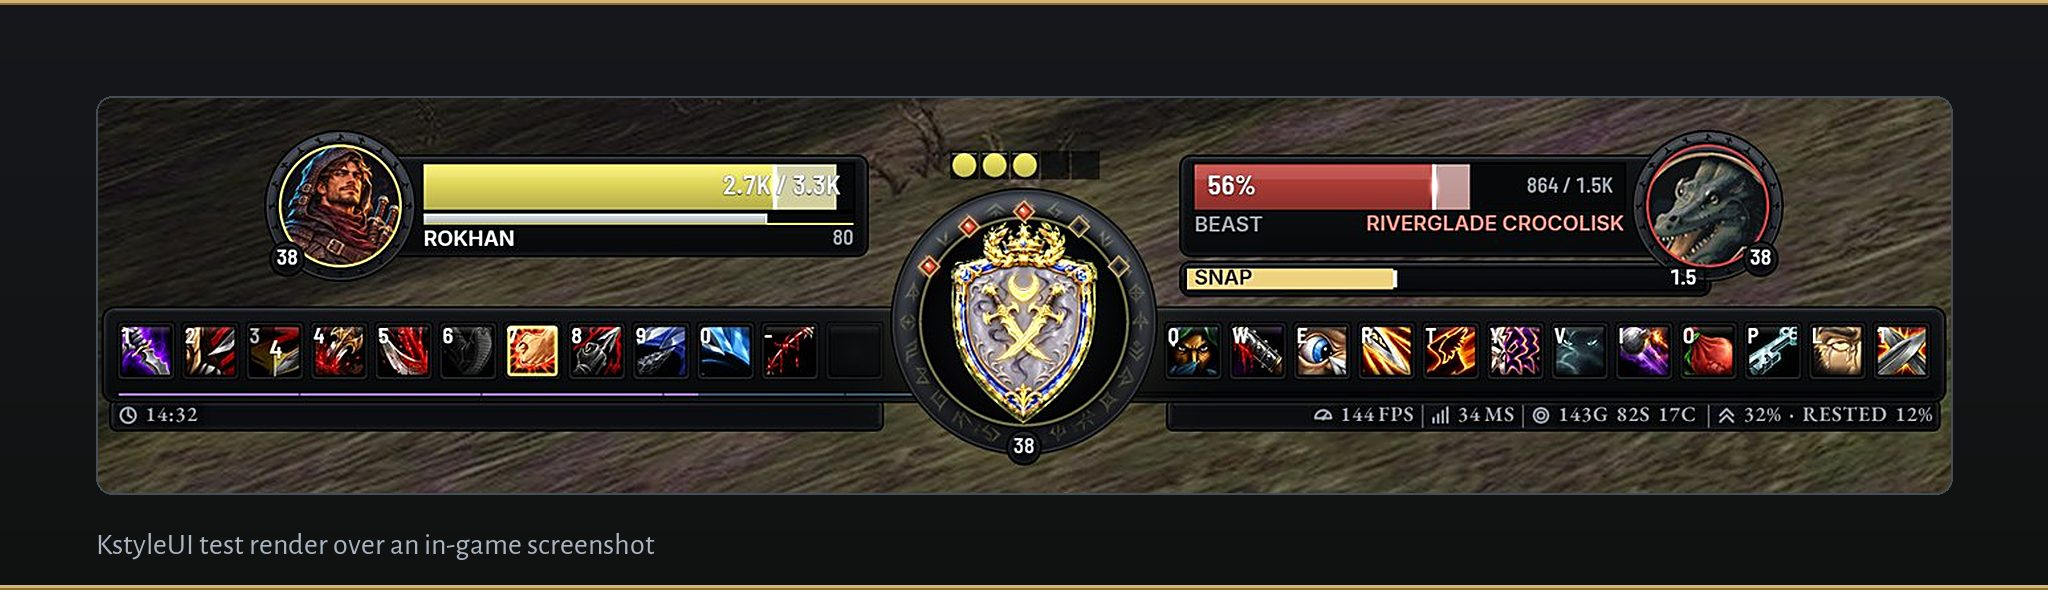
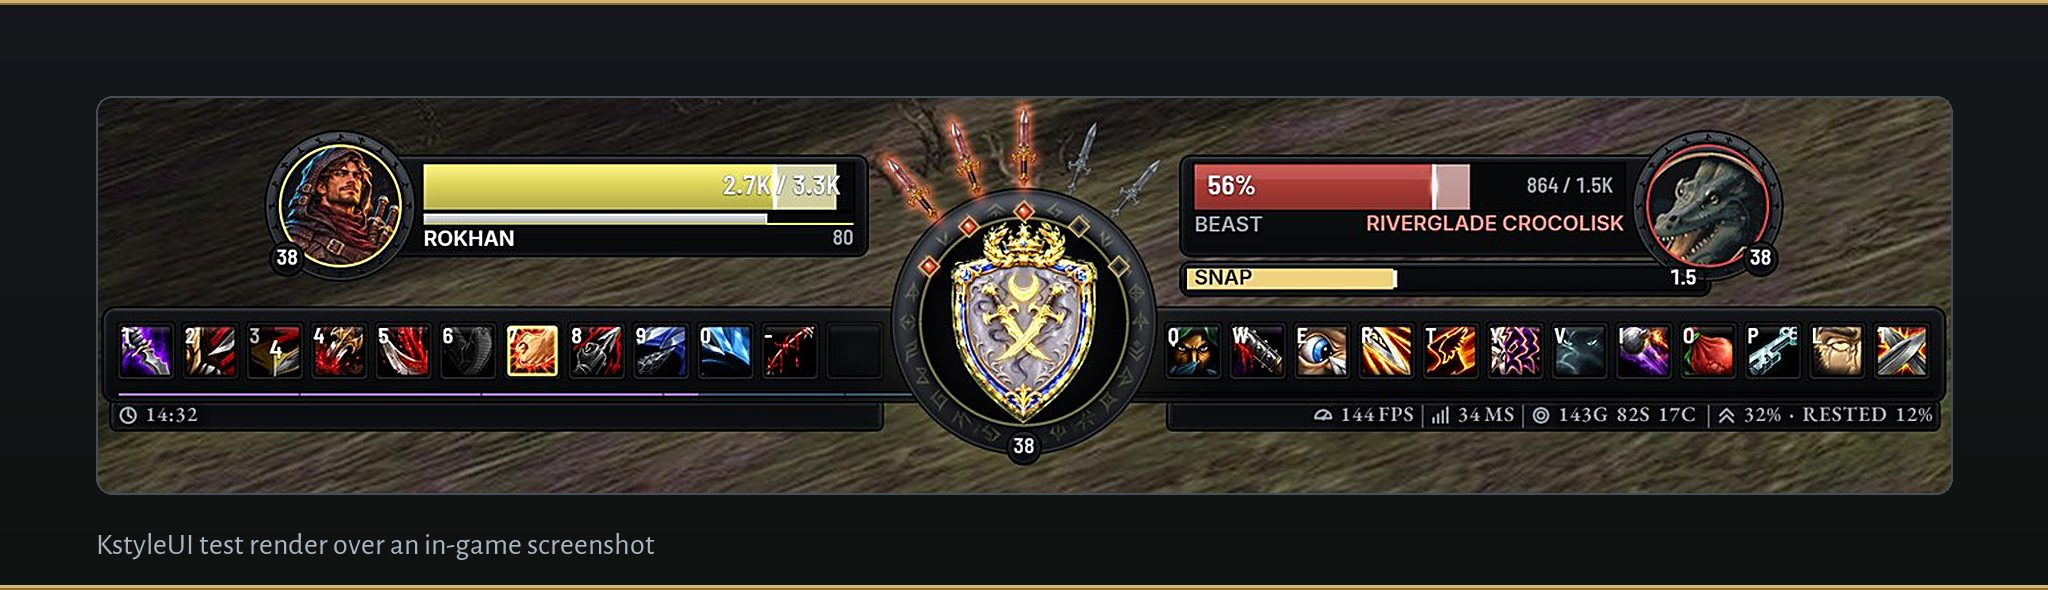
docs(store): rogue crown of blades in the crest crops
Re-render the crest and dock crops after #678: the rogue's crown of blades
fans over the crest with three of five lit. The crest crop grows to
330x420 so the whole crown fits; captions name the crown.

Changed region(s): [[0.4062, 0.1831, 0.5625, 0.3966]]

diff --git a/Tools/render/readme.py b/Tools/render/readme.py
@@ -86,7 +86,7 @@ IMAGES = [
     ("crop_meter", "render:meter_party", "470x330+3340+1825", 540),
     ("crop_meters_both", "render:meter_both_2x", "980x330+2830+1825", 1120),
     ("crop_rail", "render:frames_1080_2x", "1100x1040+2720+20", 660),
-    ("crop_crest", "render:rogue_1080_2x", "328x320+1756+1830", 540),
+    ("crop_crest", "render:rogue_1080_2x", "330x420+1755+1735", 540),
     ("crop_dock", "render:rogue_1080_2x", "1960x420+940+1740", 1400),
     ("crop_route", "render:route_flight", "1385x968+900+640", 1000),
     ("ultrawide_centred", "render:healer_centred", None, 1600),

diff --git a/docs/store/curseforge.md b/docs/store/curseforge.md
@@ -122,15 +122,15 @@ Your first two action bars sit in recessed sockets on one dark slab: twelve butt
 
 Rogues and cat-form druids see their combo points on the crest itself, as cut jewels round the top of the ring (**Options, Action Bars, Crest resource jewels**). A jewel flares when you gain a point and drains when you spend one, and at the maximum the whole ring glows (**Glow at max**). Hunters with Summon Hawk get hawk perches on the ring, each hawk with a green timer for its time left (**Hawk perches**).
 
-![KstyleUI test render over an in-game screenshot of the Medallions crest: a rogue's three combo points lit as red jewels on the ring, two still dark](https://raw.githubusercontent.com/korallis/KstyleUI/main/docs/media/marketing/show_crop_crest.jpg)
+![KstyleUI test render over an in-game screenshot of the Medallions crest: a rogue's crown of blades over the ring, three of five blades and jewels lit for three combo points](https://raw.githubusercontent.com/korallis/KstyleUI/main/docs/media/marketing/show_crop_crest.jpg)
 
-*KstyleUI test render over an in-game screenshot: three of five combo points lit on the crest. Icons in this picture are the optional AI-made icon pack, not art shipped in the addon.*
+*KstyleUI test render over an in-game screenshot: a rogue's crown of blades and jewels, three of five combo points lit. Icons in this picture are the optional AI-made icon pack, not art shipped in the addon.*
 
 Under the slab, your data bar docks on forged plates: the clock on one side; frame rate, latency, gold and experience on the other, each in its own segment with an icon and gilt dividers.
 
-![KstyleUI test render over an in-game screenshot of the Medallions slab: both medallions, the jewelled crest, two rows of sockets and the forged data dock underneath](https://raw.githubusercontent.com/korallis/KstyleUI/main/docs/media/marketing/show_crop_dock.jpg)
+![KstyleUI test render over an in-game screenshot of the Medallions slab: both medallions, the jewelled crest under a rogue's crown of blades, two rows of sockets and the forged data dock underneath](https://raw.githubusercontent.com/korallis/KstyleUI/main/docs/media/marketing/show_crop_dock.jpg)
 
-*KstyleUI test render over an in-game screenshot: the slab, the crest and the forged data dock under it. Icons in this picture are the optional AI-made icon pack, not art shipped in the addon.*
+*KstyleUI test render over an in-game screenshot: the slab, the crest with its crown of blades and the forged data dock under it. Icons in this picture are the optional AI-made icon pack, not art shipped in the addon.*
 
 ![In-game screenshot of the Medallions HUD in combat, cropped to 16:9 from the ultrawide screenshot](https://raw.githubusercontent.com/korallis/KstyleUI/main/docs/media/readme/game_medallions_16x9.jpg)
 

diff --git a/docs/store/wago.md b/docs/store/wago.md
@@ -109,15 +109,15 @@ Your first two action bars sit in recessed sockets on one dark slab: twelve butt
 
 Rogues and cat-form druids see their combo points on the crest itself, as cut jewels round the top of the ring (**Options, Action Bars, Crest resource jewels**). A jewel flares when you gain a point and drains when you spend one, and at the maximum the whole ring glows (**Glow at max**). Hunters with Summon Hawk get hawk perches on the ring, each hawk with a green timer for its time left (**Hawk perches**).
 
-![KstyleUI test render over an in-game screenshot of the Medallions crest: a rogue's three combo points lit as red jewels on the ring, two still dark](https://raw.githubusercontent.com/korallis/KstyleUI/main/docs/media/marketing/show_crop_crest.jpg)
+![KstyleUI test render over an in-game screenshot of the Medallions crest: a rogue's crown of blades over the ring, three of five blades and jewels lit for three combo points](https://raw.githubusercontent.com/korallis/KstyleUI/main/docs/media/marketing/show_crop_crest.jpg)
 
-*KstyleUI test render over an in-game screenshot: three of five combo points lit on the crest. Icons in this picture are the optional AI-made icon pack, not art shipped in the addon.*
+*KstyleUI test render over an in-game screenshot: a rogue's crown of blades and jewels, three of five combo points lit. Icons in this picture are the optional AI-made icon pack, not art shipped in the addon.*
 
 Under the slab, your data bar docks on forged plates: the clock on one side; frame rate, latency, gold and experience on the other, each in its own segment with an icon and gilt dividers.
 
-![KstyleUI test render over an in-game screenshot of the Medallions slab: both medallions, the jewelled crest, two rows of sockets and the forged data dock underneath](https://raw.githubusercontent.com/korallis/KstyleUI/main/docs/media/marketing/show_crop_dock.jpg)
+![KstyleUI test render over an in-game screenshot of the Medallions slab: both medallions, the jewelled crest under a rogue's crown of blades, two rows of sockets and the forged data dock underneath](https://raw.githubusercontent.com/korallis/KstyleUI/main/docs/media/marketing/show_crop_dock.jpg)
 
-*KstyleUI test render over an in-game screenshot: the slab, the crest and the forged data dock under it. Icons in this picture are the optional AI-made icon pack, not art shipped in the addon.*
+*KstyleUI test render over an in-game screenshot: the slab, the crest with its crown of blades and the forged data dock under it. Icons in this picture are the optional AI-made icon pack, not art shipped in the addon.*
 
 ![In-game screenshot of the Medallions HUD in combat, cropped to 16:9 from the ultrawide screenshot](https://raw.githubusercontent.com/korallis/KstyleUI/main/docs/media/readme/game_medallions_16x9.jpg)
 

diff --git a/README.md b/README.md
@@ -92,15 +92,15 @@ Your first two action bars sit in recessed sockets on one dark slab: twelve butt
 
 Rogues and cat-form druids see their combo points on the crest itself, as cut jewels round the top of the ring (**Options, Action Bars, Crest resource jewels**). A jewel flares when you gain a point and drains when you spend one, and at the maximum the whole ring glows (**Glow at max**). Hunters with Summon Hawk get hawk perches on the ring, each hawk with a green timer for its time left (**Hawk perches**).
 
-![KstyleUI test render over an in-game screenshot of the Medallions crest: a rogue's three combo points lit as red jewels on the ring, two still dark](https://raw.githubusercontent.com/korallis/KstyleUI/main/docs/media/marketing/show_crop_crest.jpg)
+![KstyleUI test render over an in-game screenshot of the Medallions crest: a rogue's crown of blades over the ring, three of five blades and jewels lit for three combo points](https://raw.githubusercontent.com/korallis/KstyleUI/main/docs/media/marketing/show_crop_crest.jpg)
 
-*KstyleUI test render over an in-game screenshot: three of five combo points lit on the crest. Icons in this picture are the optional AI-made icon pack, not art shipped in the addon.*
+*KstyleUI test render over an in-game screenshot: a rogue's crown of blades and jewels, three of five combo points lit. Icons in this picture are the optional AI-made icon pack, not art shipped in the addon.*
 
 Under the slab, your data bar docks on forged plates: the clock on one side; frame rate, latency, gold and experience on the other, each in its own segment with an icon and gilt dividers.
 
-![KstyleUI test render over an in-game screenshot of the Medallions slab: both medallions, the jewelled crest, two rows of sockets and the forged data dock underneath](https://raw.githubusercontent.com/korallis/KstyleUI/main/docs/media/marketing/show_crop_dock.jpg)
+![KstyleUI test render over an in-game screenshot of the Medallions slab: both medallions, the jewelled crest under a rogue's crown of blades, two rows of sockets and the forged data dock underneath](https://raw.githubusercontent.com/korallis/KstyleUI/main/docs/media/marketing/show_crop_dock.jpg)
 
-*KstyleUI test render over an in-game screenshot: the slab, the crest and the forged data dock under it. Icons in this picture are the optional AI-made icon pack, not art shipped in the addon.*
+*KstyleUI test render over an in-game screenshot: the slab, the crest with its crown of blades and the forged data dock under it. Icons in this picture are the optional AI-made icon pack, not art shipped in the addon.*
 
 ![In-game screenshot of the Medallions HUD in combat, cropped to 16:9 from the ultrawide screenshot](https://raw.githubusercontent.com/korallis/KstyleUI/main/docs/media/readme/game_medallions_16x9.jpg)
 

diff --git a/docs/store/description.md b/docs/store/description.md
@@ -86,15 +86,15 @@ Your first two action bars sit in recessed sockets on one dark slab: twelve butt
 
 Rogues and cat-form druids see their combo points on the crest itself, as cut jewels round the top of the ring (**Options, Action Bars, Crest resource jewels**). A jewel flares when you gain a point and drains when you spend one, and at the maximum the whole ring glows (**Glow at max**). Hunters with Summon Hawk get hawk perches on the ring, each hawk with a green timer for its time left (**Hawk perches**).
 
-![KstyleUI test render over an in-game screenshot of the Medallions crest: a rogue's three combo points lit as red jewels on the ring, two still dark](https://raw.githubusercontent.com/korallis/KstyleUI/main/docs/media/marketing/show_crop_crest.jpg)
+![KstyleUI test render over an in-game screenshot of the Medallions crest: a rogue's crown of blades over the ring, three of five blades and jewels lit for three combo points](https://raw.githubusercontent.com/korallis/KstyleUI/main/docs/media/marketing/show_crop_crest.jpg)
 
-*KstyleUI test render over an in-game screenshot: three of five combo points lit on the crest. Icons in this picture are the optional AI-made icon pack, not art shipped in the addon.*
+*KstyleUI test render over an in-game screenshot: a rogue's crown of blades and jewels, three of five combo points lit. Icons in this picture are the optional AI-made icon pack, not art shipped in the addon.*
 
 Under the slab, your data bar docks on forged plates: the clock on one side; frame rate, latency, gold and experience on the other, each in its own segment with an icon and gilt dividers.
 
-![KstyleUI test render over an in-game screenshot of the Medallions slab: both medallions, the jewelled crest, two rows of sockets and the forged data dock underneath](https://raw.githubusercontent.com/korallis/KstyleUI/main/docs/media/marketing/show_crop_dock.jpg)
+![KstyleUI test render over an in-game screenshot of the Medallions slab: both medallions, the jewelled crest under a rogue's crown of blades, two rows of sockets and the forged data dock underneath](https://raw.githubusercontent.com/korallis/KstyleUI/main/docs/media/marketing/show_crop_dock.jpg)
 
-*KstyleUI test render over an in-game screenshot: the slab, the crest and the forged data dock under it. Icons in this picture are the optional AI-made icon pack, not art shipped in the addon.*
+*KstyleUI test render over an in-game screenshot: the slab, the crest with its crown of blades and the forged data dock under it. Icons in this picture are the optional AI-made icon pack, not art shipped in the addon.*
 
 ![In-game screenshot of the Medallions HUD in combat, cropped to 16:9 from the ultrawide screenshot](https://raw.githubusercontent.com/korallis/KstyleUI/main/docs/media/readme/game_medallions_16x9.jpg)
 
